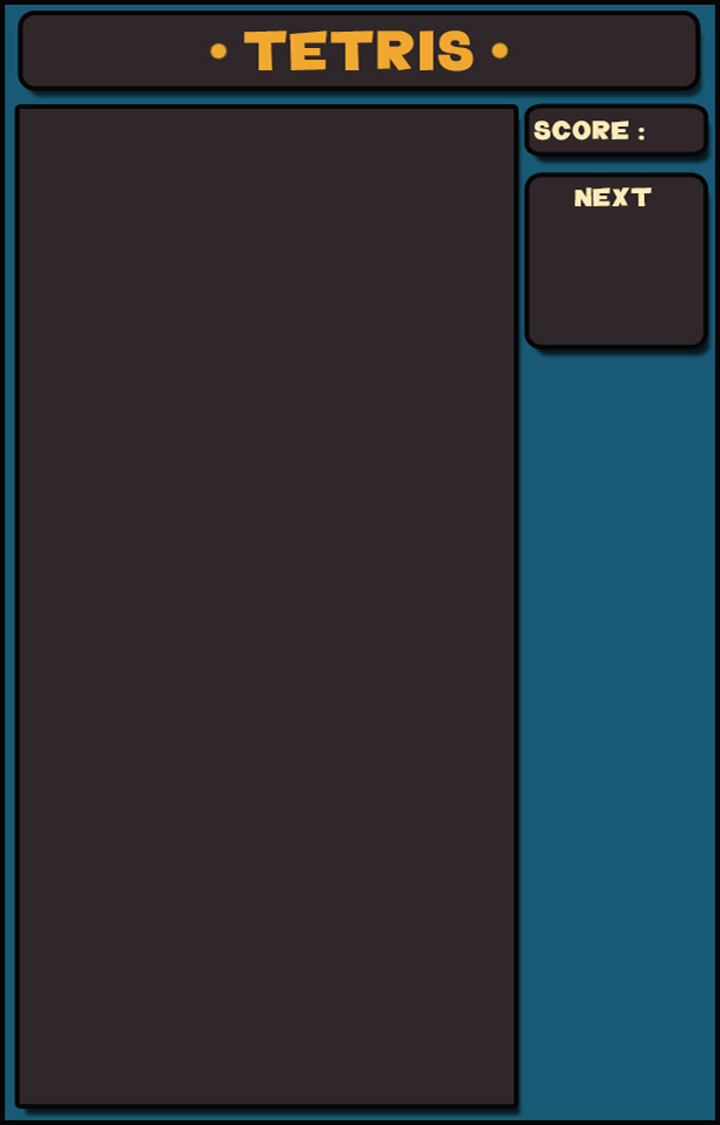
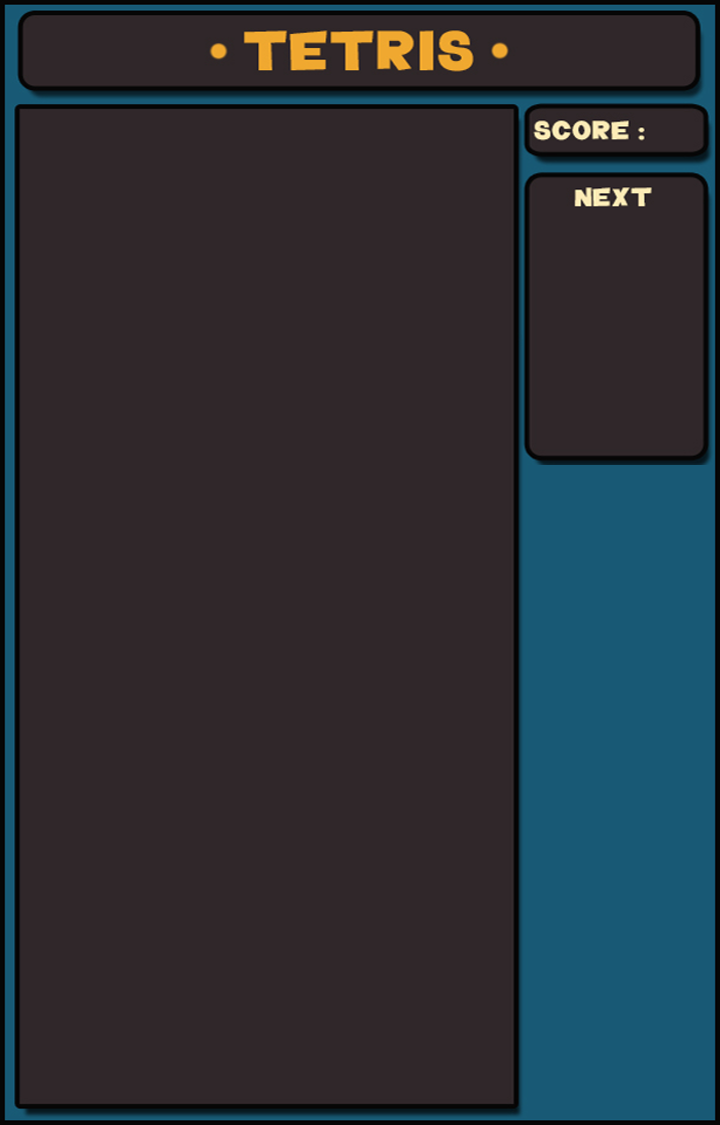
add next figure

Changed region(s): [[0.7028, 0.28, 1.0, 0.4356]]

diff --git a/pkg/app/app.go b/pkg/app/app.go
@@ -31,6 +31,7 @@ type Game struct {
 	tx         int
 	ty         int
 	figure     TFig
+	nextFig    TFig
 	delta      float64
 }
 
@@ -48,6 +49,7 @@ func NewGame() *Game {
 		ty:         f.area.Bounds().Min.Y,
 		figure:     tf,
 		delta:      Delta,
+		nextFig:    NewFig(f, RandomNum()),
 	}
 	g.Fps()
 	return g
@@ -68,6 +70,7 @@ func (r *Game) Layout(outsideWidth, outsideHeight int) (int, int) {
 func (r *Game) Draw(screen *ebiten.Image) {
 	r.screen = screen
 	r.DrawBg()
+	r.DrawNextFigure()
 	r.tickTack()
 	if r.field.IsGameEnd() {
 		r.Restart()
@@ -137,8 +140,26 @@ func (r Game) DrawFigure(figure TFig) {
 }
 
 func (r *Game) SetNewFigure() {
-	r.figure = NewFig(r.field, RandomNum())
+	r.figure = r.nextFig
+	r.nextFig = NewFig(r.field, RandomNum())
 }
+
+
+func (r Game) DrawNextFigure() {
+	x := r.tx + 545.0
+	y := r.ty + 115.0
+	if r.nextFig.Type.IsI() {
+		x = r.tx + 520.0
+		y = r.ty + 125.0
+	}
+	for _, point := range r.nextFig.a {
+		op := &ebiten.DrawImageOptions{}
+		op.GeoM.Translate(float64(point.x*CubeWidth+x), float64(point.y*CubeWidth+y))
+		err := r.screen.DrawImage(r.Square.sprite, op)
+		fail.Check(err)
+	}
+}
+
 
 func (r *Game) Restart() {
 	r.field.Clear()
@@ -152,9 +173,9 @@ func RandomNum() Tetromino {
 
 func (r *Game) listenXMoving() {
 	switch {
-	case inpututil.IsKeyJustPressed(ebiten.KeyRight):
+	case ebiten.IsKeyPressed(ebiten.KeyRight):
 		r.MoveRight()
-	case inpututil.IsKeyJustPressed(ebiten.KeyLeft):
+	case ebiten.IsKeyPressed(ebiten.KeyLeft):
 		r.MoveLeft()
 	}
 }

diff --git a/pkg/app/tetromino.go b/pkg/app/tetromino.go
@@ -1,6 +1,12 @@
 package app
 
+import "fmt"
+
 type Tetromino int
+
+func (r Tetromino) IsI() bool {
+	return fmt.Sprintf("%s", r) == "I"
+}
 
 func (r Tetromino) String() string {
 	res := ""
